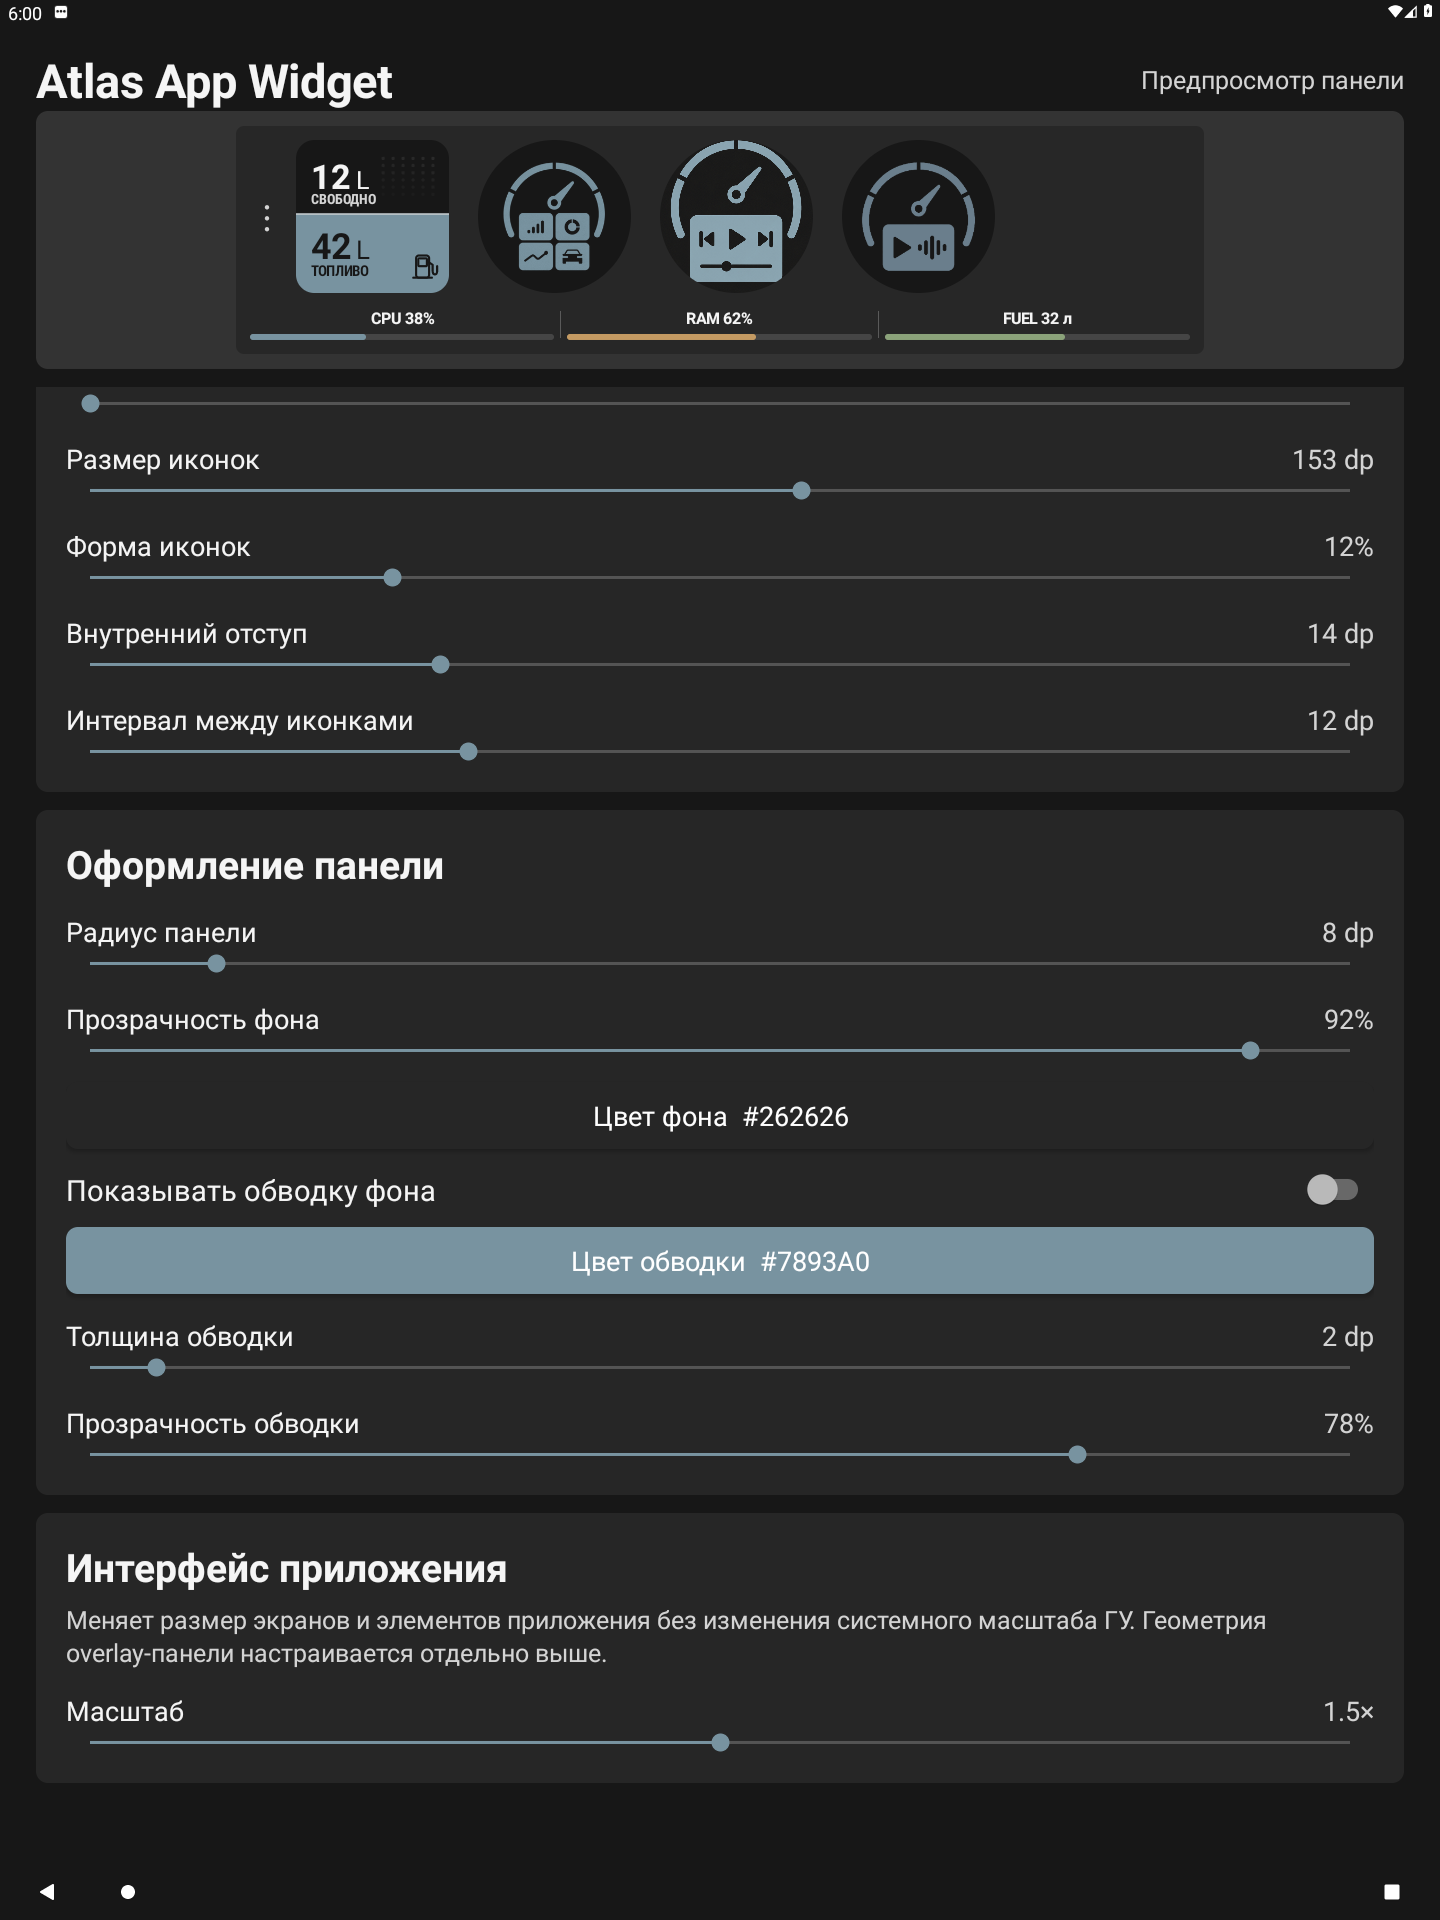
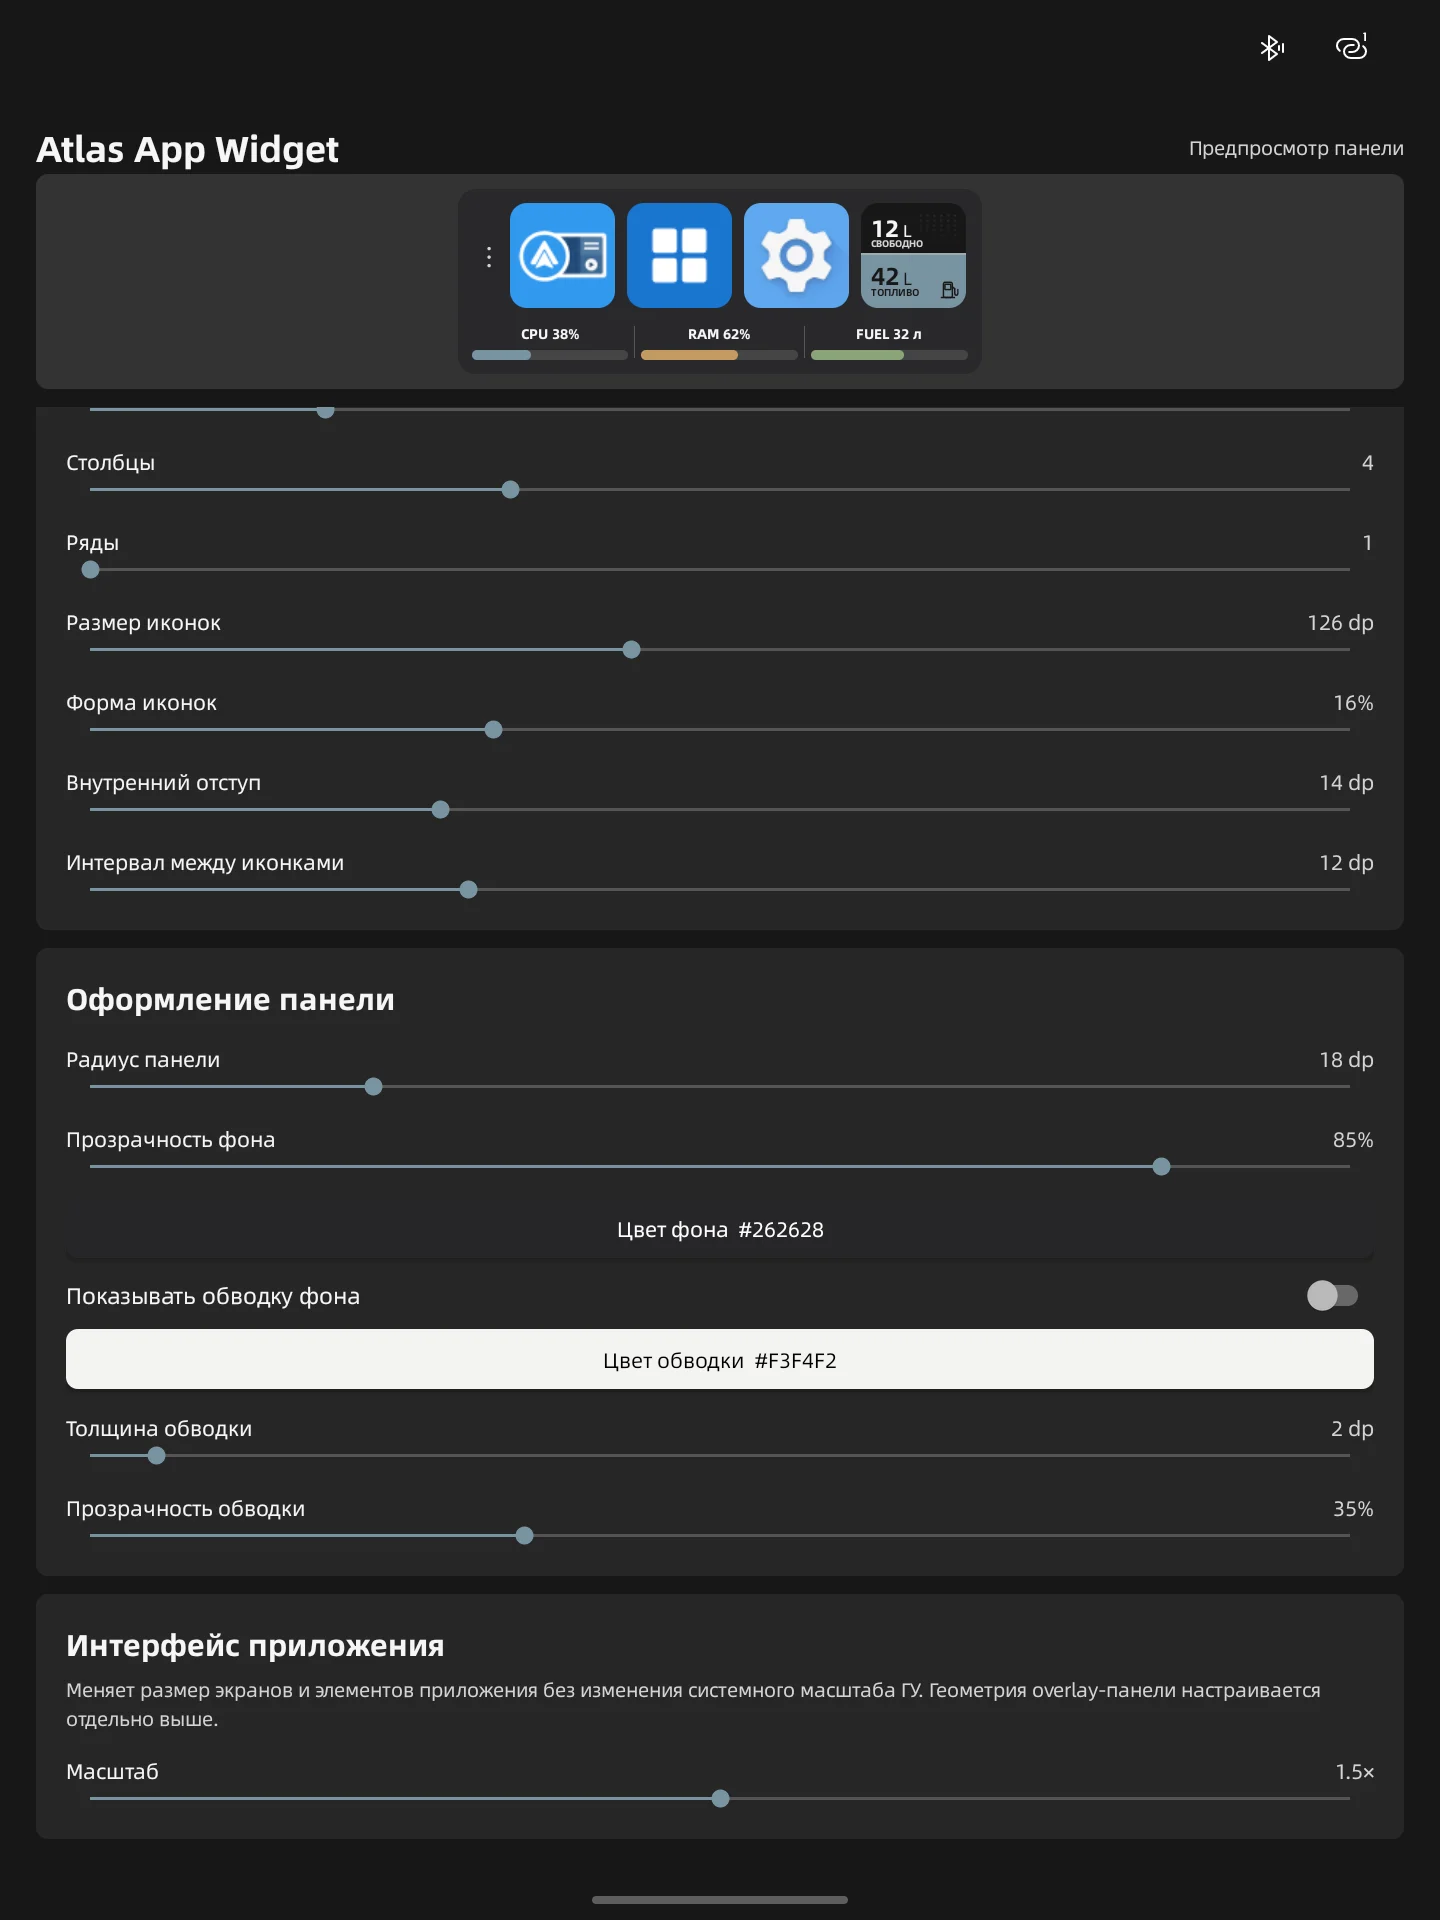
Refresh README screenshots

diff --git a/README.md b/README.md
@@ -16,45 +16,46 @@ Atlas App Widget размещает поверх домашнего экрана
 
 ## Интерфейс
 
-Снимки сделаны с текущей release-сборки на эмуляторе Android 11 с разрешением 1440×1920. Кадр
-overlay обрезан без масштабирования, чтобы панель и графики CPU, RAM и FUEL были видны крупнее.
-Выбранные ярлыки и показания топлива относятся к демонстрационному состоянию AVD: сторонние
-приложения не входят в Atlas App Widget, а штатная работа приложения не подменяет реальные данные
-автомобиля.
+Панель занимает только выбранную область домашнего экрана: ярлыки остаются доступны поверх HOME,
+не перекрывая управление остальными элементами лаунчера.
+
+<p align="center">
+  <a href="docs/images/home-overview.webp">
+    <img src="docs/images/home-overview.webp" width="720" alt="Atlas App Widget на домашнем экране автомобильной ГУ">
+  </a>
+</p>
+
+<p align="center"><strong>Панель крупным планом</strong></p>
+
+<p align="center">
+  <a href="docs/images/overlay-home.webp">
+    <img src="docs/images/overlay-home.webp" width="720" alt="Ярлыки и плитка топлива Atlas App Widget">
+  </a>
+</p>
+
+Настройки показывают результат в живом предпросмотре. Отдельно регулируются содержимое панели,
+системные индикаторы, геометрия и оформление.
 
 <table>
   <tr>
-    <th>Панель поверх HOME · увеличенный фрагмент</th>
-    <th>Выбор и порядок элементов</th>
-  </tr>
-  <tr>
-    <td>
-      <a href="docs/images/overlay-home.webp">
-        <img src="docs/images/overlay-home.webp" alt="Демонстрационная панель Atlas App Widget поверх HOME">
-      </a>
-    </td>
-    <td>
-      <a href="docs/images/app-picker.webp">
-        <img src="docs/images/app-picker.webp" alt="Демонстрационный выбор приложений, activity и плитки топлива">
-      </a>
-    </td>
-  </tr>
-</table>
-
-<table>
-  <tr>
-    <th>Основные настройки</th>
-    <th>Геометрия и оформление</th>
+    <th>Запуск и содержимое</th>
+    <th>Индикаторы и геометрия</th>
+    <th>Оформление панели</th>
   </tr>
   <tr>
     <td>
       <a href="docs/images/settings-overview.webp">
-        <img src="docs/images/settings-overview.webp" alt="Основные настройки Atlas App Widget">
+        <img src="docs/images/settings-overview.webp" alt="Запуск, импорт настроек и содержимое Atlas App Widget">
+      </a>
+    </td>
+    <td>
+      <a href="docs/images/settings-indicators.webp">
+        <img src="docs/images/settings-indicators.webp" alt="Настройки индикаторов и геометрии Atlas App Widget">
       </a>
     </td>
     <td>
       <a href="docs/images/settings-appearance.webp">
-        <img src="docs/images/settings-appearance.webp" alt="Настройки геометрии и оформления Atlas App Widget">
+        <img src="docs/images/settings-appearance.webp" alt="Настройки оформления Atlas App Widget">
       </a>
     </td>
   </tr>
